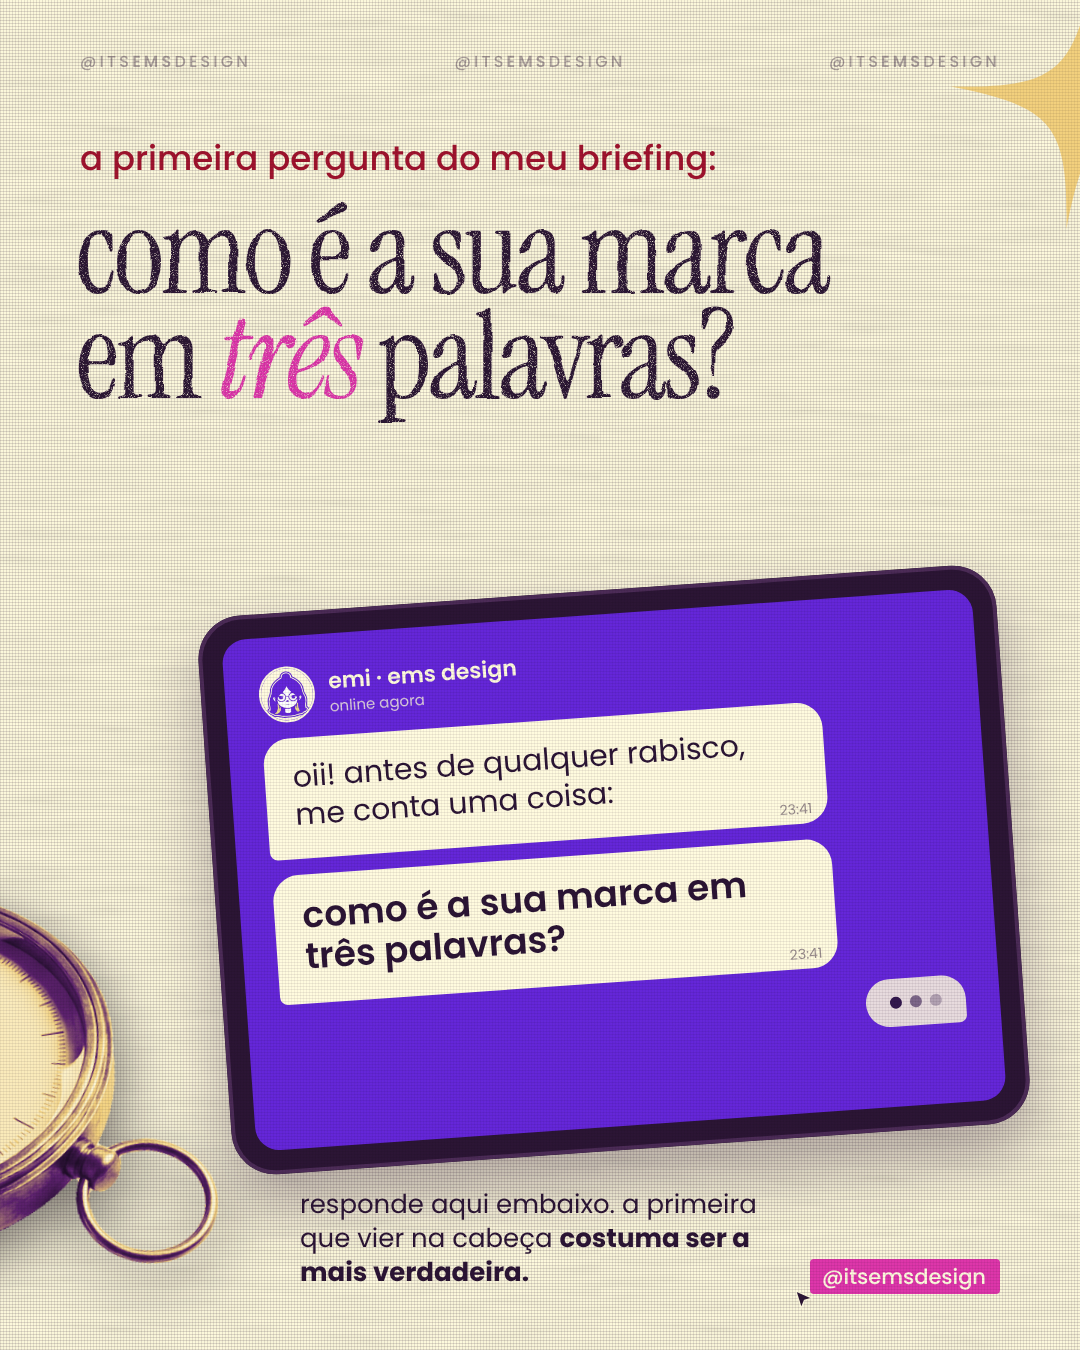
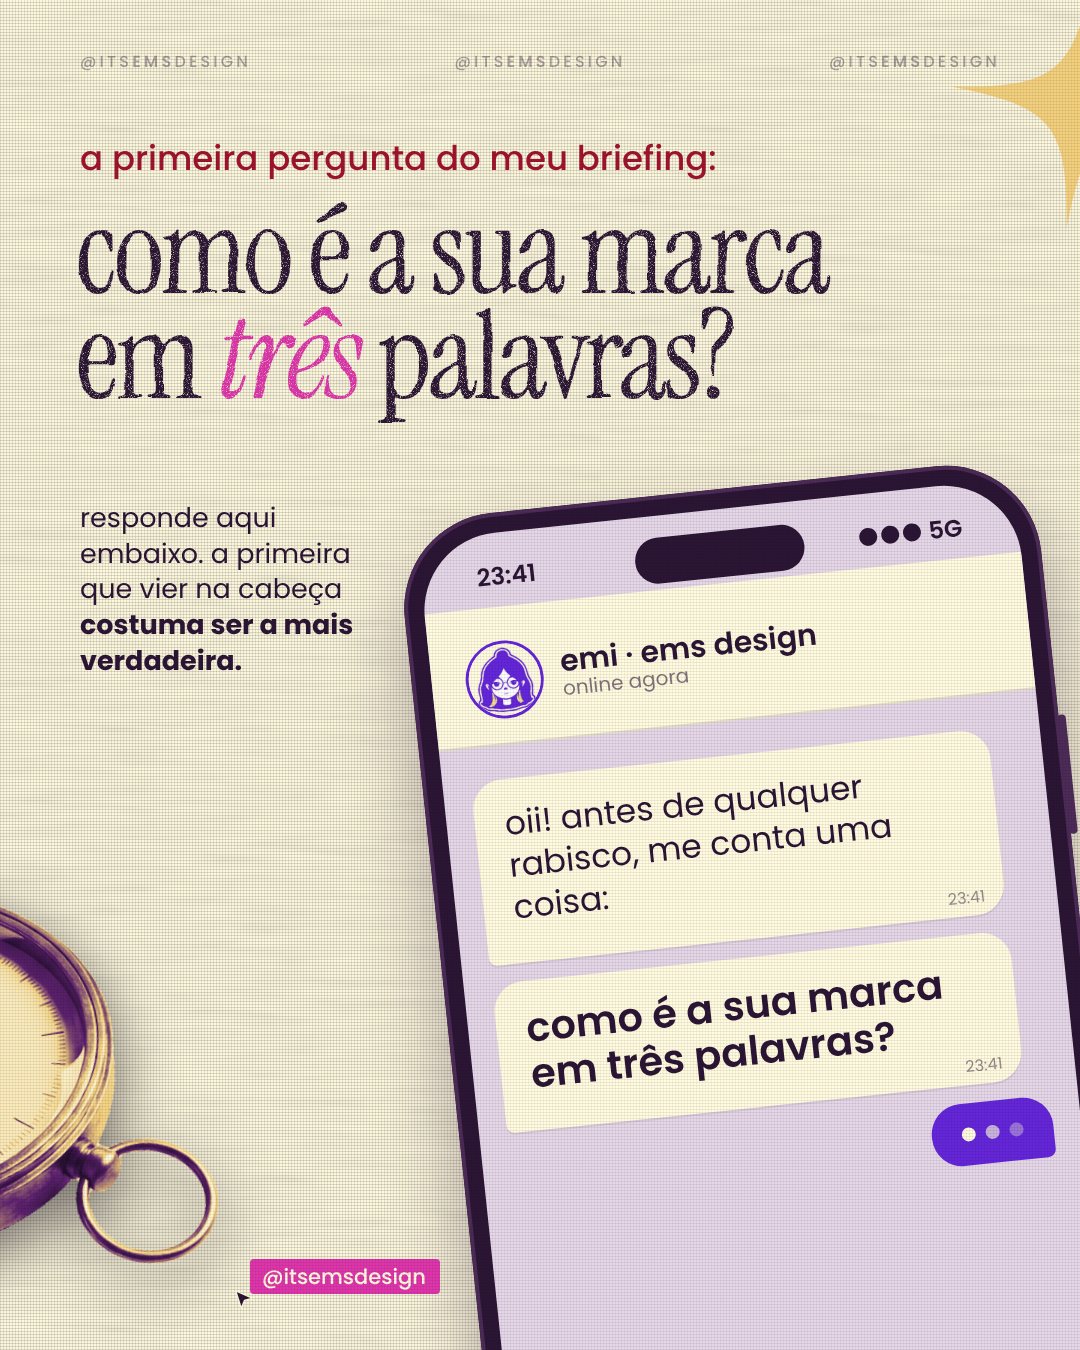
Ajustezinho v7, lâmina 5: celular em close no lugar do tablet
O aparelho volta a ser celular, grande e saindo pela borda de baixo,
com a conversa em letra grande; o texto de resposta vai para a coluna
da esquerda. Some o espaço vazio que sobrava na lâmina.

Claude-Session: https://claude.ai/code/session_01CmCiK8ktcTUDK4gcGU9jQJ

diff --git a/Emi/ems-so-um-ajustezinho/projeto/carrossel-v7.html b/Emi/ems-so-um-ajustezinho/projeto/carrossel-v7.html
@@ -149,21 +149,26 @@ body{background:#140a19;width:max-content}
 #l5 .lead{left:80px;top:140px;font-size:34px;color:var(--wine);z-index:5}
 #l5 .t1{left:76px;top:200px;font-size:122px;color:var(--tinta);white-space:nowrap;z-index:5}
 #l5 .t1 em{color:var(--pink)}
-.tablet{left:214px;top:590px;width:800px;height:560px;background:var(--tinta);border-radius:44px;padding:24px;transform:rotate(-4deg);z-index:4;
-  box-shadow:inset 0 0 0 4px #4a2a55,0 30px 60px rgba(42,20,51,.35)}
-.tela-tab{width:100%;height:100%;border-radius:24px;background:var(--violeta);overflow:hidden;position:relative;padding:30px 34px;display:flex;flex-direction:column;gap:16px;align-items:flex-start}
-.tela-tab .topo{display:flex;align-items:center;gap:14px;color:var(--ivory);font:600 22px/1.1 var(--sans)}
-.tela-tab .topo img{width:56px;height:56px;border-radius:50%;border:2px solid var(--ivory)}
-.tela-tab .topo small{display:block;font:400 15px/1 var(--sans);opacity:.75;margin-top:4px}
-.bolha{position:relative;background:var(--ivory);color:var(--tinta);border-radius:26px 26px 26px 8px;padding:20px 28px 26px;font:400 30px/1.25 var(--sans);max-width:560px}
-.bolha.forte{font:600 36px/1.15 var(--sans)}
-.bolha time{position:absolute;right:16px;bottom:8px;font:400 14px/1 var(--sans);opacity:.5}
-.digitando{align-self:flex-end;background:var(--ivory);opacity:.85;border-radius:26px 26px 8px 26px;padding:18px 24px;display:flex;gap:8px}
-.digitando i{width:12px;height:12px;border-radius:50%;background:var(--tinta)}
-.digitando i:nth-child(2){opacity:.6}.digitando i:nth-child(3){opacity:.3}
-#l5 .resp{left:300px;top:1188px;width:500px;font:400 26px/1.3 var(--sans);color:var(--tinta);z-index:5}
+.cel{left:462px;top:486px;width:640px;height:1320px;background:var(--tinta);border-radius:96px;padding:20px;transform:rotate(-6deg);z-index:4;
+  box-shadow:inset 0 0 0 4px #4a2a55,0 40px 70px rgba(42,20,51,.35)}
+.cel::before{content:"";position:absolute;right:-7px;top:260px;width:8px;height:120px;border-radius:4px;background:#4a2a55}
+.tela-cel{width:100%;height:100%;border-radius:78px;background:var(--lavanda-2);overflow:hidden;position:relative;color:var(--tinta)}
+.tela-cel .ilha{position:absolute;left:50%;top:22px;transform:translateX(-50%);width:170px;height:46px;background:var(--tinta);border-radius:24px}
+.tela-cel .status{display:flex;justify-content:space-between;padding:32px 56px 0;font:600 24px/1 var(--sans)}
+.tela-cel .topo{display:flex;align-items:center;gap:18px;padding:34px 34px 24px;margin-top:18px;border-bottom:2px solid rgba(42,20,51,.12);background:var(--ivory)}
+.tela-cel .topo img{width:78px;height:78px;border-radius:50%;border:3px solid var(--violeta)}
+.tela-cel .topo b{display:block;font:600 30px/1.1 var(--sans)}
+.tela-cel .topo small{font:400 20px/1 var(--sans);opacity:.6}
+.tela-cel .msgs{display:flex;flex-direction:column;gap:18px;padding:34px 28px}
+.bolha{position:relative;background:var(--ivory);border-radius:30px 30px 30px 8px;padding:24px 30px 34px;font:400 33px/1.28 var(--sans);max-width:520px;box-shadow:0 2px 0 rgba(42,20,51,.08)}
+.bolha.forte{font:600 40px/1.15 var(--sans)}
+.bolha time{position:absolute;right:20px;bottom:10px;font:400 16px/1 var(--sans);opacity:.5}
+.digitando{align-self:flex-end;background:var(--violeta);border-radius:30px 30px 8px 30px;padding:24px 30px;display:flex;gap:10px}
+.digitando i{width:14px;height:14px;border-radius:50%;background:var(--ivory)}
+.digitando i:nth-child(2){opacity:.65}.digitando i:nth-child(3){opacity:.35}
+#l5 .resp{left:80px;top:500px;width:300px;font:400 27px/1.32 var(--sans);color:var(--tinta);z-index:5}
 #l5 .resp b{font-weight:700}
-#l5 .handle{right:80px;bottom:56px}
+#l5 .handle{left:250px;bottom:56px}
 
 /* ---------- 06 chamada (etiqueta) ---------- */
 .etiqueta{left:120px;top:170px;width:840px;background:var(--ivory);border-radius:48px;transform:rotate(-2deg);z-index:4;
@@ -296,11 +301,15 @@ body{background:#140a19;width:max-content}
   <div class="agua" style="color:var(--tinta)"><span>@ITS<b>EMS</b>DESIGN</span><span>@ITS<b>EMS</b>DESIGN</span><span>@ITS<b>EMS</b>DESIGN</span></div>
   <p class="lead">a primeira pergunta do meu briefing:</p>
   <h2 class="serif t1 impresso">como é a sua marca<br>em <em>três</em> palavras?</h2>
-  <div class="tablet"><div class="tela-tab">
-    <div class="topo"><img src="assets/ems-mascote-ivory.png" alt=""><div>emi · ems design<small>online agora</small></div></div>
-    <div class="bolha">oii! antes de qualquer rabisco, me conta uma coisa:<time>23:41</time></div>
-    <div class="bolha forte">como é a sua marca em três palavras?<time>23:41</time></div>
-    <div class="digitando"><i></i><i></i><i></i></div>
+  <div class="cel"><div class="tela-cel">
+    <span class="ilha"></span>
+    <div class="status"><span>23:41</span><span>●●● 5G</span></div>
+    <div class="topo"><img src="assets/ems-mascote-ivory.png" alt=""><div><b>emi · ems design</b><small>online agora</small></div></div>
+    <div class="msgs">
+      <div class="bolha">oii! antes de qualquer rabisco, me conta uma coisa:<time>23:41</time></div>
+      <div class="bolha forte">como é a sua marca em três palavras?<time>23:41</time></div>
+      <div class="digitando"><i></i><i></i><i></i></div>
+    </div>
   </div></div>
   <p class="resp">responde aqui embaixo. a primeira que vier na cabeça <b>costuma ser a mais verdadeira.</b></p>
   <!-- atravessa o corte 5|6 -->

diff --git a/Emi/ems-so-um-ajustezinho/README.md b/Emi/ems-so-um-ajustezinho/README.md
@@ -25,7 +25,7 @@ Referência de formato: post da @agrizzart sobre manter o perfil ativo com a age
 | 2 · loop | papel pontilhado; **o círculo é o loop**: as 4 etapas em pílulas sobre o anel (setas no sentido horário), "o loop da *refação*" no meio; a etapa 03 ("tá quase…") é a única em rosa | @studioemi.design |
 | 3 · pasta | xadrez **tom sobre tom** e janela **monocromática** (ícones da EMS em tinta, miniaturas lavanda); rosa só no "*final*" e no aviso "spoiler: aprovaram a v1" | @danibloom.design |
 | 4 · norte | a da v2, aprovada | — |
-| 5 · pergunta | linho; "como é a sua marca em *três* palavras?"; a pergunta numa conversa no tablet | @rafaelalimadesigner_ |
+| 5 · pergunta | linho; "como é a sua marca em *três* palavras?"; a conversa num **celular em close** (grande, saindo pela borda de baixo), com o texto de resposta na coluna da esquerda | @rafaelalimadesigner_ |
 | 6 · chamada | a chamada vira etiqueta, com "brie*f*ing?" e "comenta BRIEFING" | @studioemi.design, @amanda.rfernandes |
 
 **Conectividade:** um objeto ou forma atravessa cada corte: papel (1|2), brilho violeta (2|3), brilho manteiga (3|4), bússola (4|5), brilho manteiga (5|6). Nada de fio.
@@ -40,7 +40,7 @@ Referências em `referencias/outras/`.
 2. **Tensão** (papel pontilhado, o loop como círculo): "sem briefing, vira isso: / o loop da *refação*". Fecho: "ninguém é o vilão dessa história. / faltou combinar o destino antes de sair."
 3. **Piada** (janela retrô sobre xadrez): "teste rápido: / ache o arquivo *final*". "sem briefing, cada versão é um chute. e chute cansa os dois lados."
 4. **Virada** (tecido ameixa): "calma: ajuste faz parte. / o que cansa é ajuste sem *norte.*" + bússola. "briefing bem feito é o norte do projeto: todo mundo sabe pra onde vai, e o ajuste vira refinamento, não recomeço."
-5. **Pergunta aberta** (linho claro): "a primeira pergunta do meu briefing: / como é a sua marca em *três* palavras?" A pergunta aparece numa conversa no tablet; a resposta vai nos comentários.
+5. **Pergunta aberta** (linho claro): "a primeira pergunta do meu briefing: / como é a sua marca em *três* palavras?" A pergunta aparece numa conversa no celular, em close; a resposta vai nos comentários.
 6. **Chamada** (etiqueta sobre tecido violeta): "quer as outras perguntas do meu / brie*f*ing?" + "comenta “BRIEFING” que eu te mando na dm" + selo + emsdesign.com.br.
 
 > ⚠ **Antes de postar:** a chamada promete mandar por dm as perguntas do briefing da Emi. Elas precisam estar prontas num formato fácil de mandar (PDF, nota ou link), e alguém precisa responder quem comentar "BRIEFING". A lâmina 5 diz que "como é a sua marca em três palavras?" é a primeira pergunta do briefing: se no briefing dela a primeira for outra, troque o texto da lâmina ou a ordem do briefing.
